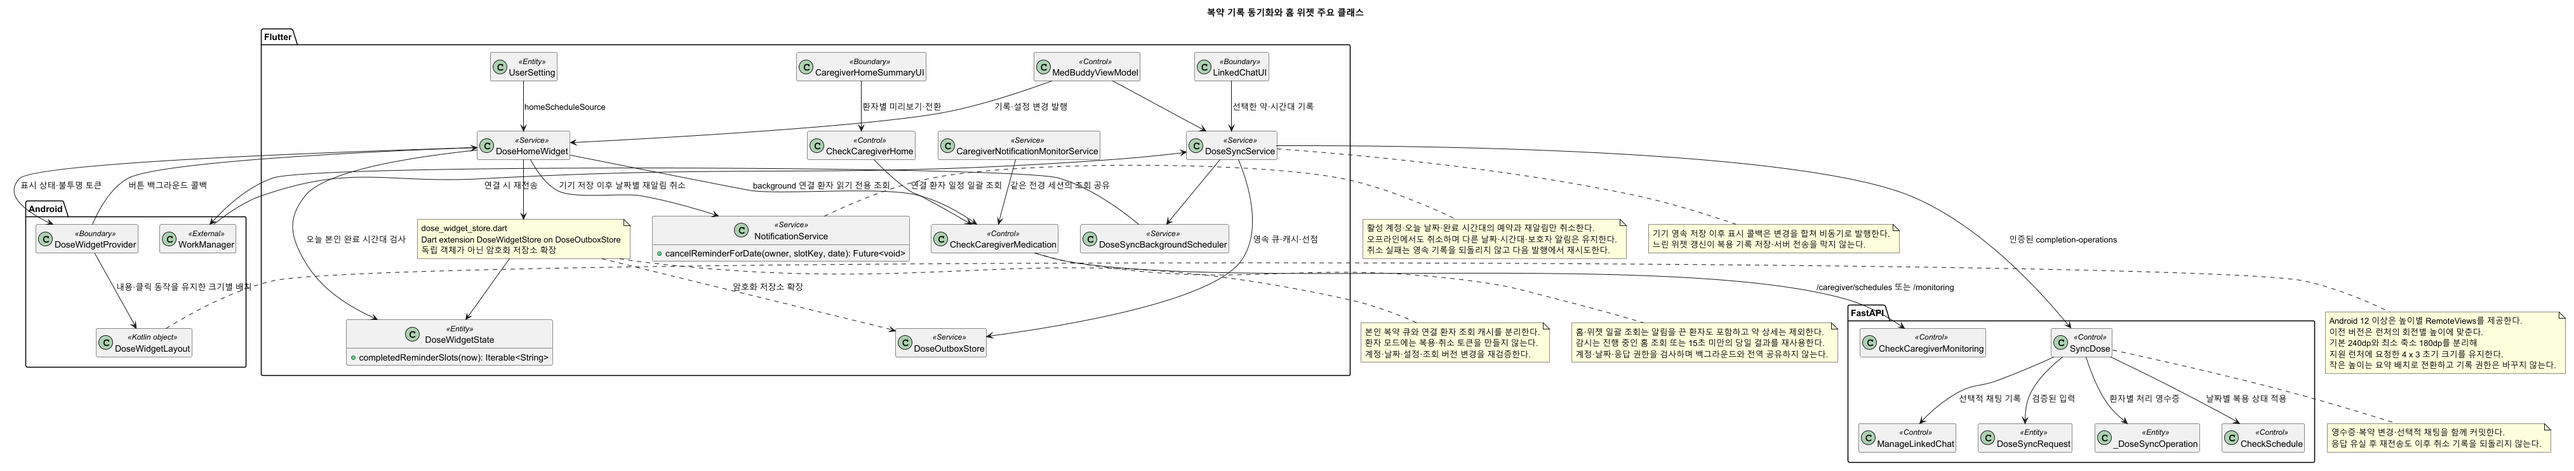
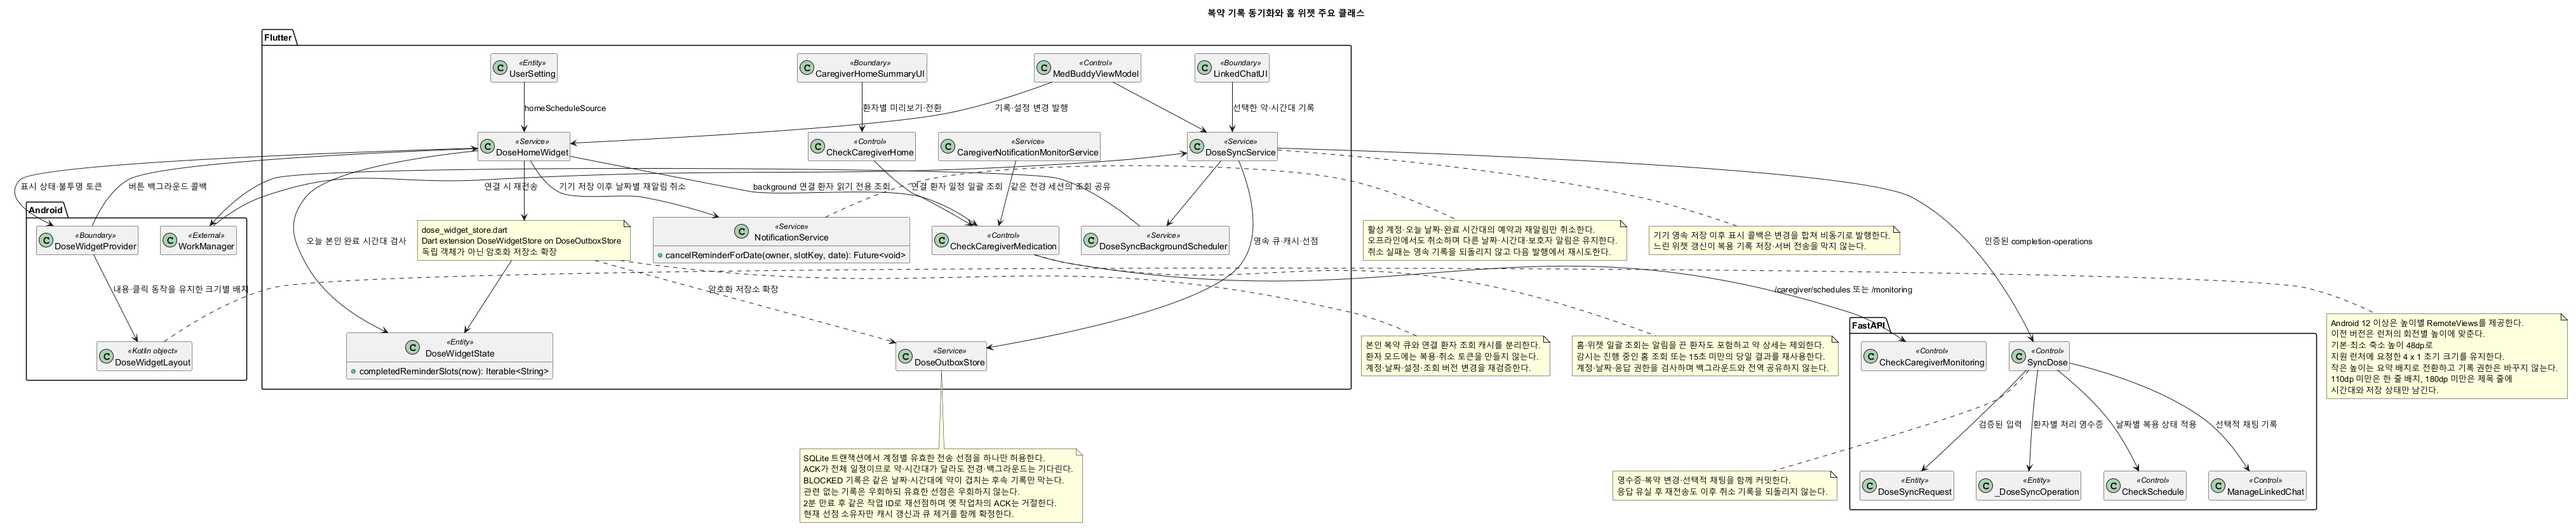
docs(dose-sync): describe account upload leases and acknowledgement ordering

diff --git a/docs/MedBuddy - Medication Intake Automation Roadmap.md b/docs/MedBuddy - Medication Intake Automation Roadmap.md
@@ -36,6 +36,13 @@ record.
   encrypted device outbox. Stable operation IDs survive chat dismissal and app
   restart. Receipts do not reapply later-undone doses; pending status is distinct
   from server-confirmed state.
+- Foreground and background workers share one unexpired upload lease per account,
+  claimed transactionally in SQLite. Even distinct doses wait because each ACK
+  contains a whole schedule snapshot; parallel ACKs must not undo newer completion.
+  A blocked record only holds later overlapping medicines on the same date and
+  time slot, so unrelated blocked records may be bypassed, but active leases may
+  not. After the two-minute lease expires, retry keeps the operation ID; a worker
+  whose lease was replaced cannot overwrite the cache or remove the new claim.
 - Full-slot transitions reuse the existing caregiver outbox. The initiating
   conversation does not receive a second automatic full-slot message; other
   linked caregivers retain their existing notification flow.
